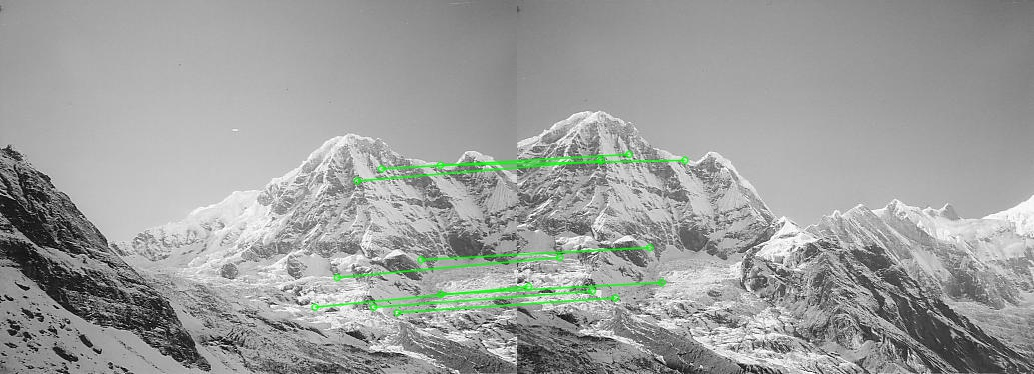
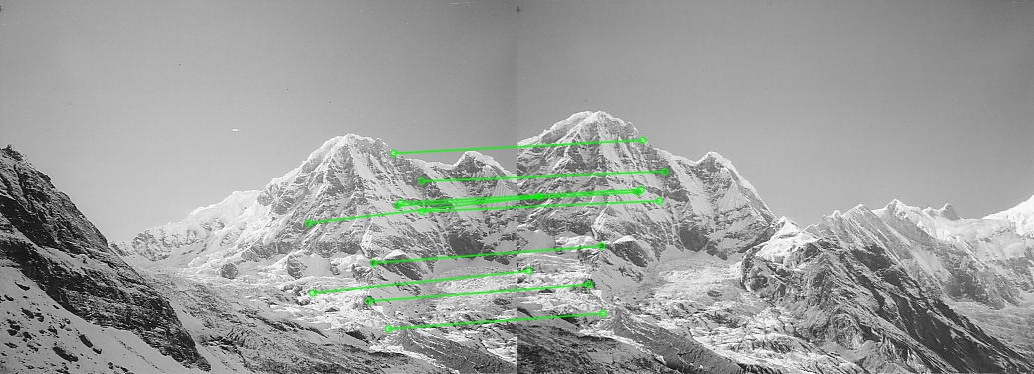
Inlier points bug removed

Changed region(s): [[0.2785, 0.6471, 0.6499, 0.8824], [0.2785, 0.3529, 0.6809, 0.6176]]

diff --git a/Project 2/Task1/main.py b/Project 2/Task1/main.py
@@ -6,6 +6,7 @@ import random
 
 UBIT = 'ameenmoh'
 np.random.seed(sum([ord(c) for c in UBIT]))
+random.seed(sum([ord(c) for c in UBIT]))
 
 OUTPUT_DIR = "outputs/"
 img1_name = "./mountain1.jpg"
@@ -92,11 +93,12 @@ def _draw_inlier_match_keypoints(img1_g, keypoint_1, img2_g, keypoint_2, good_ma
     """Draw match image for  10 random matches using only inliers.
     TODO : Check if good_matches in this case is just inliers or both inliers and outliers
     """
-    good_matches = random.sample(good_matches, 10)
-    mask, _ = _get_homography_matrix(
-        good_matches, keypoint_1, keypoint_2, _H=False)
     matchesMask = mask.ravel().tolist()
-    # matchesMask = matchesMask[:10]
+    # Inlier points are ones where mask is 1
+    inlier_index = random.sample(
+        [i for i, ele in enumerate(matchesMask) if ele == 1], 10)
+    matchesMask = [matchesMask[i] for i in inlier_index]
+    good_matches = [good_matches[i] for i in inlier_index]
     draw_params = dict(matchColor=(0, 255, 0),  # draw matches in green color
                        singlePointColor=None,
                        matchesMask=matchesMask,  # draw only inliers
